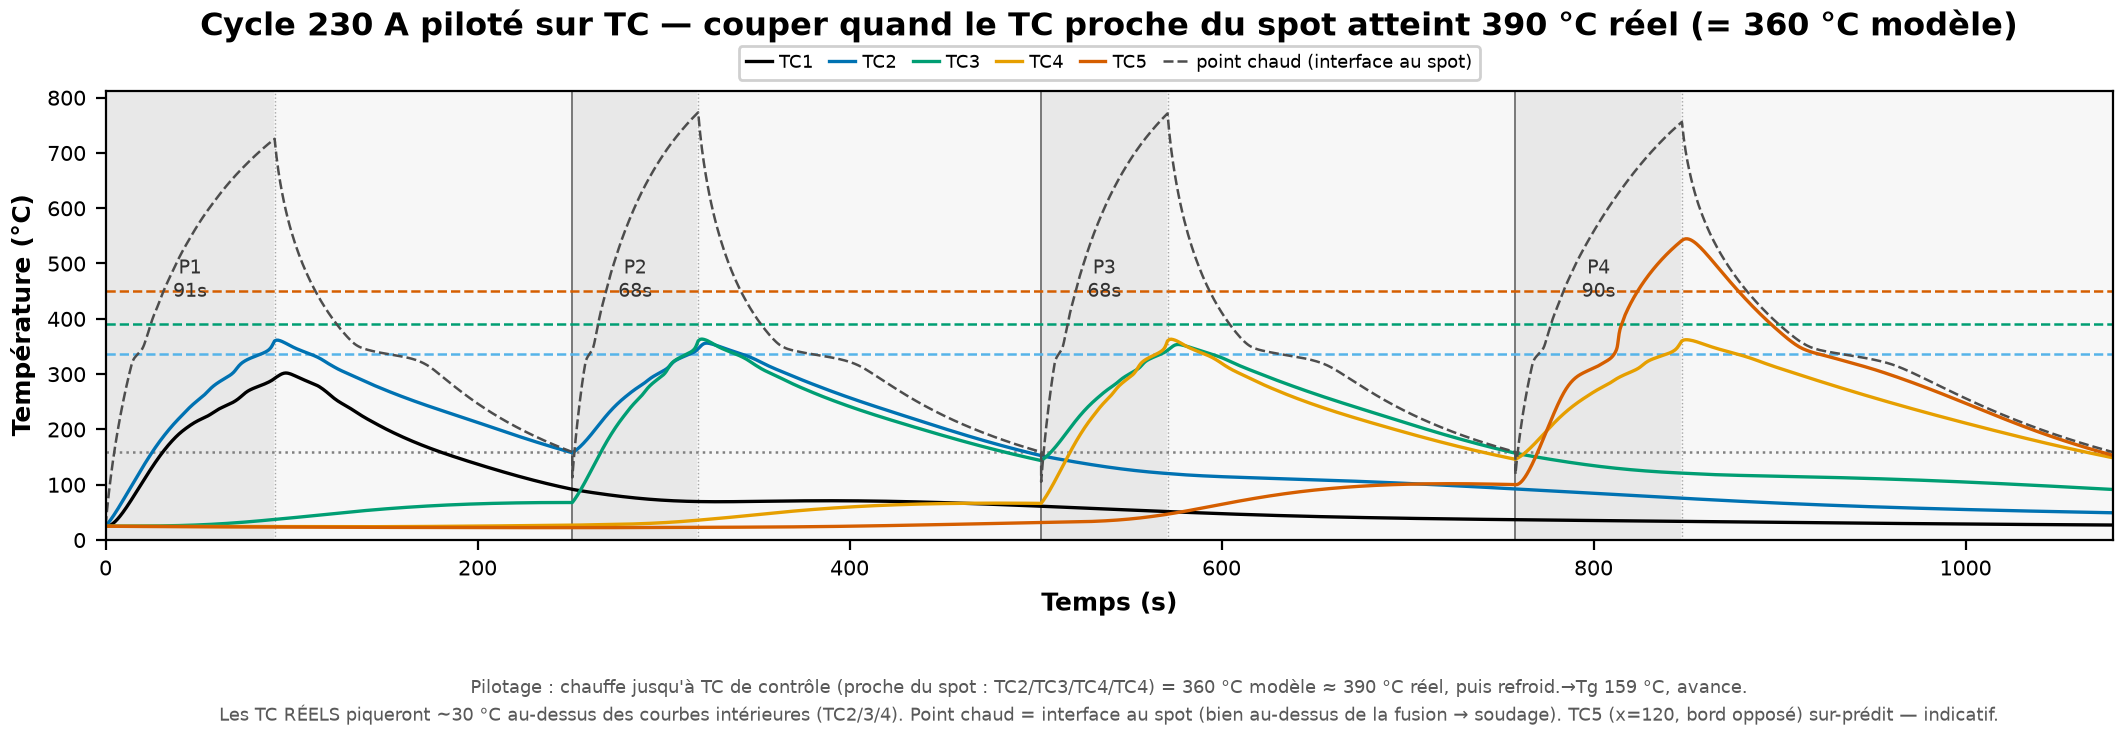
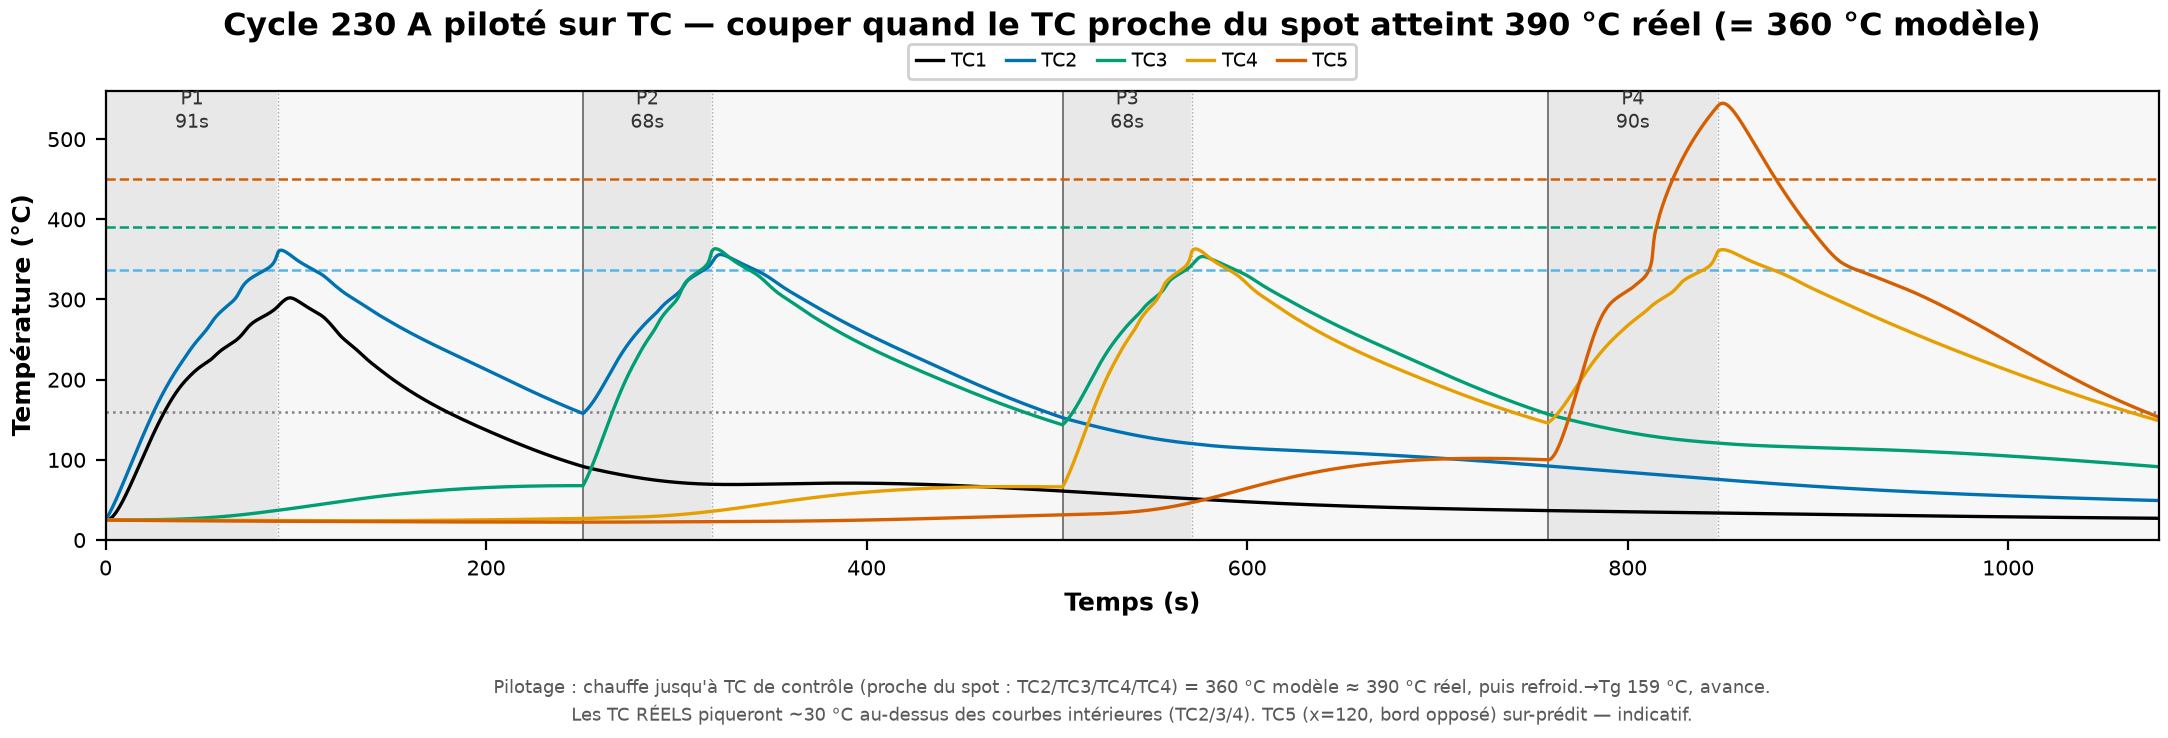
style(figure): cycle 230A pilote TC — retire la courbe point chaud, recadre l'axe Y (0-560)
Claude-Session: https://claude.ai/code/session_01QZzipzAgTptsrd6bPwoLWd

diff --git a/code/scripts/gen/gen_cycle_230A_TC390.py b/code/scripts/gen/gen_cycle_230A_TC390.py
@@ -142,11 +142,10 @@ if __name__ == "__main__":
         ax.axvline(p["t_fin_ch"], color="0.65", lw=0.5, ls=":", zorder=1)
         ax.axvline(p["t_fin_rf"], color="0.4", lw=0.6, ls="-", zorder=1)
         mc = 0.5 * (p["t_deb"] + p["t_fin_ch"])
-        ax.annotate(f"P{p['i'] + 1}\n{p['dwell']:.0f}s", (mc, 470), ha="center", va="center",
+        ax.annotate(f"P{p['i'] + 1}\n{p['dwell']:.0f}s", (mc, 535), ha="center", va="center",
                     fontsize=7, color="0.2")
     for nom, coul in zip(noms, couleurs):
         ax.plot(t, series[nom], color=coul, lw=1.2, label=nom)
-    ax.plot(t, pc, color="0.3", lw=0.9, ls=(0, (4, 1.6)), label="point chaud (interface au spot)", zorder=2.5)
     for seuil, coul, lab in ((g.T_FUSION, OKABE_ITO["cyan"], "fusion 337"),
                              (390.0, OKABE_ITO["vert"], "consigne 390 (réel)"),
                              (g.T_DEGRAD, OKABE_ITO["vermillon"], "dégrad. 450")):
@@ -154,17 +153,16 @@ if __name__ == "__main__":
     ax.axhline(g.T_REFROID, color="0.5", lw=0.9, ls=":", zorder=1)
 
     ax.set_xlim(0, t[-1])
-    ax.set_ylim(0, max(560, pc.max() * 1.05))
+    ax.set_ylim(0, 560)
     ax.set_xlabel("Temps (s)")
     ax.set_ylabel("Température (°C)")
     ax.set_title("Cycle 230 A piloté sur TC — couper quand le TC proche du spot atteint "
                  "390 °C réel (= 360 °C modèle)", fontsize=11.5, fontweight="bold", pad=20)
-    ax.legend(loc="lower center", bbox_to_anchor=(0.5, 1.005), ncol=7, fontsize=6.6,
-              columnspacing=0.9, handlelength=1.4, handletextpad=0.4, framealpha=0.92)
+    ax.legend(loc="lower center", bbox_to_anchor=(0.5, 1.005), ncol=5, fontsize=7.0,
+              columnspacing=1.0, handlelength=1.4, handletextpad=0.4, framealpha=0.92)
     note = ("Pilotage : chauffe jusqu'à TC de contrôle (proche du spot : TC2/TC3/TC4/TC4) = 360 °C modèle ≈ 390 °C réel, "
             "puis refroid.→Tg 159 °C, avance.\n"
-            "Les TC RÉELS piqueront ~30 °C au-dessus des courbes intérieures (TC2/3/4). Point chaud = interface au spot "
-            "(bien au-dessus de la fusion → soudage). TC5 (x=120, bord opposé) sur-prédit — indicatif.")
+            "Les TC RÉELS piqueront ~30 °C au-dessus des courbes intérieures (TC2/3/4). TC5 (x=120, bord opposé) sur-prédit — indicatif.")
     ax.text(0.5, -0.30, note, transform=ax.transAxes, ha="center", va="top", fontsize=6.4, color="0.35", linespacing=1.5)
     fig.tight_layout(rect=(0, 0.08, 1, 1))
     out = R / "biblio" / "labo" / "figures" / "fig_cycle_230A_TC390"
